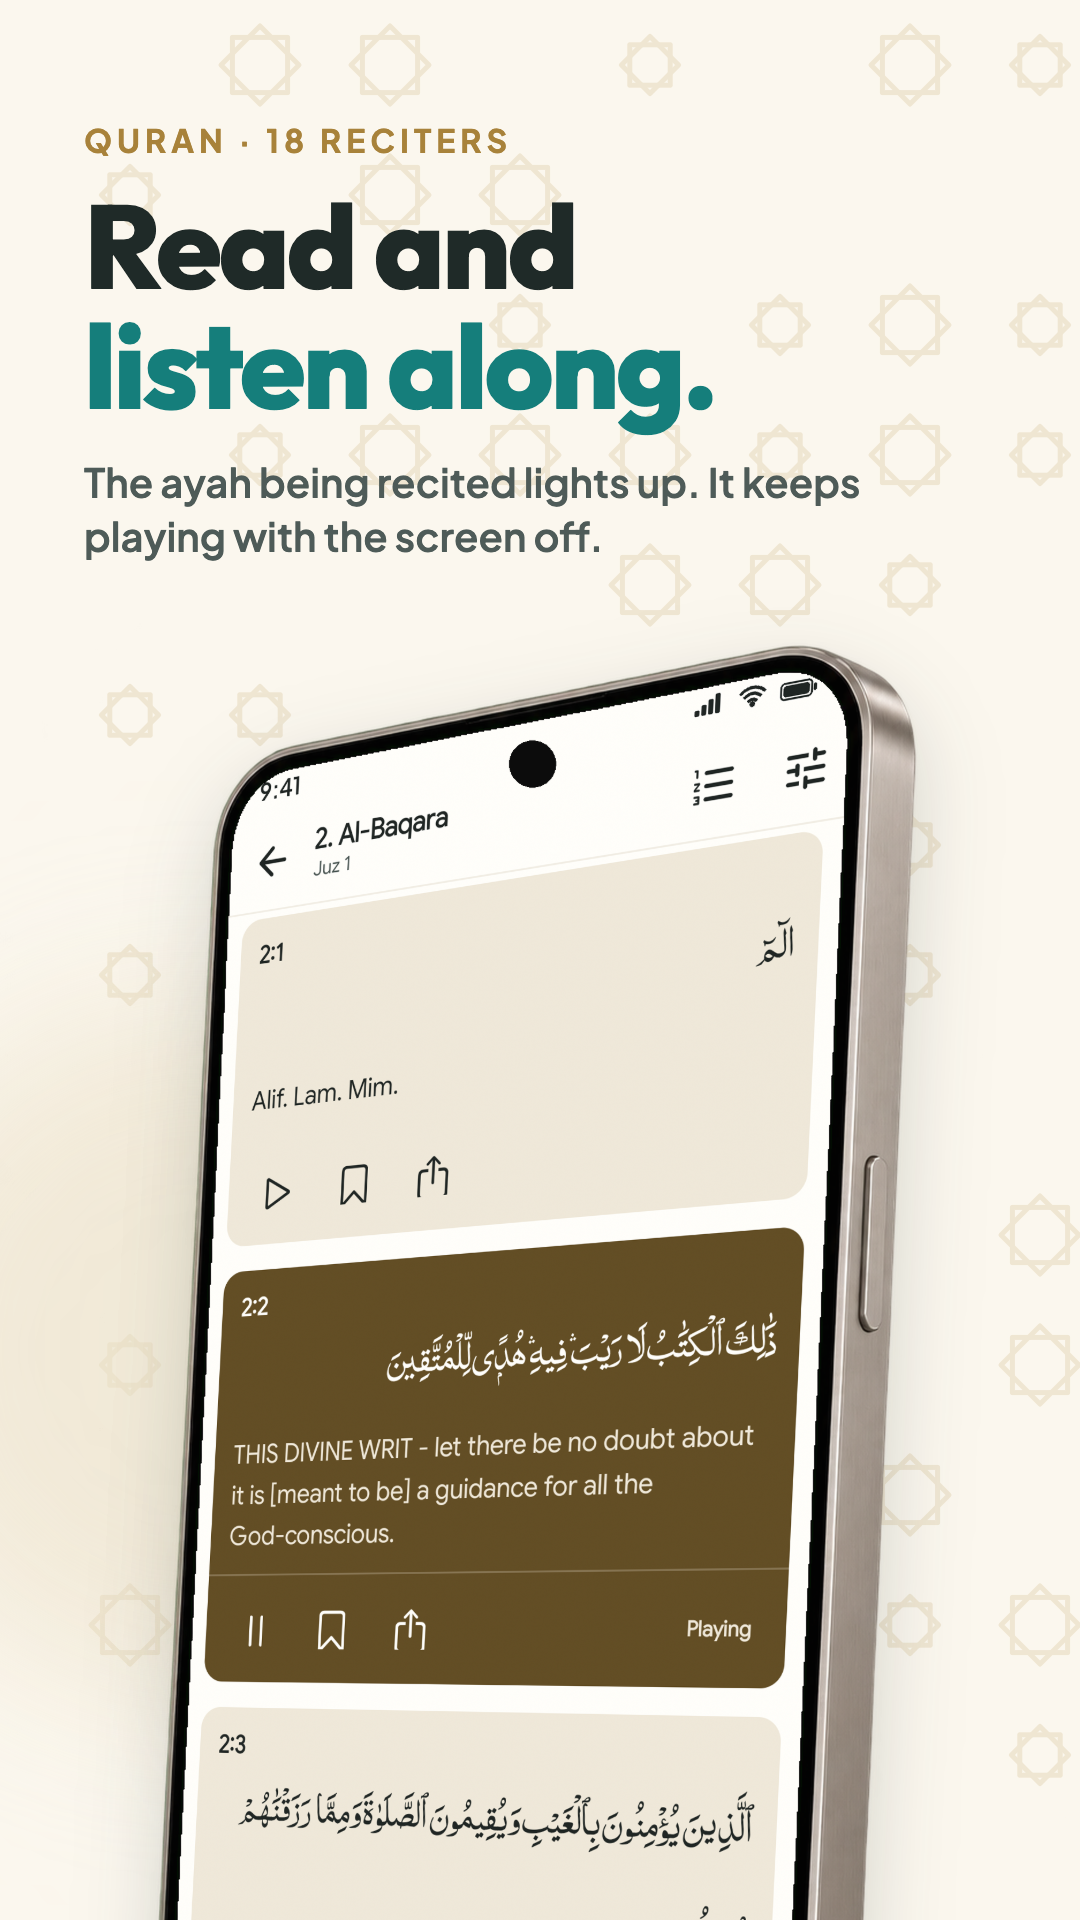
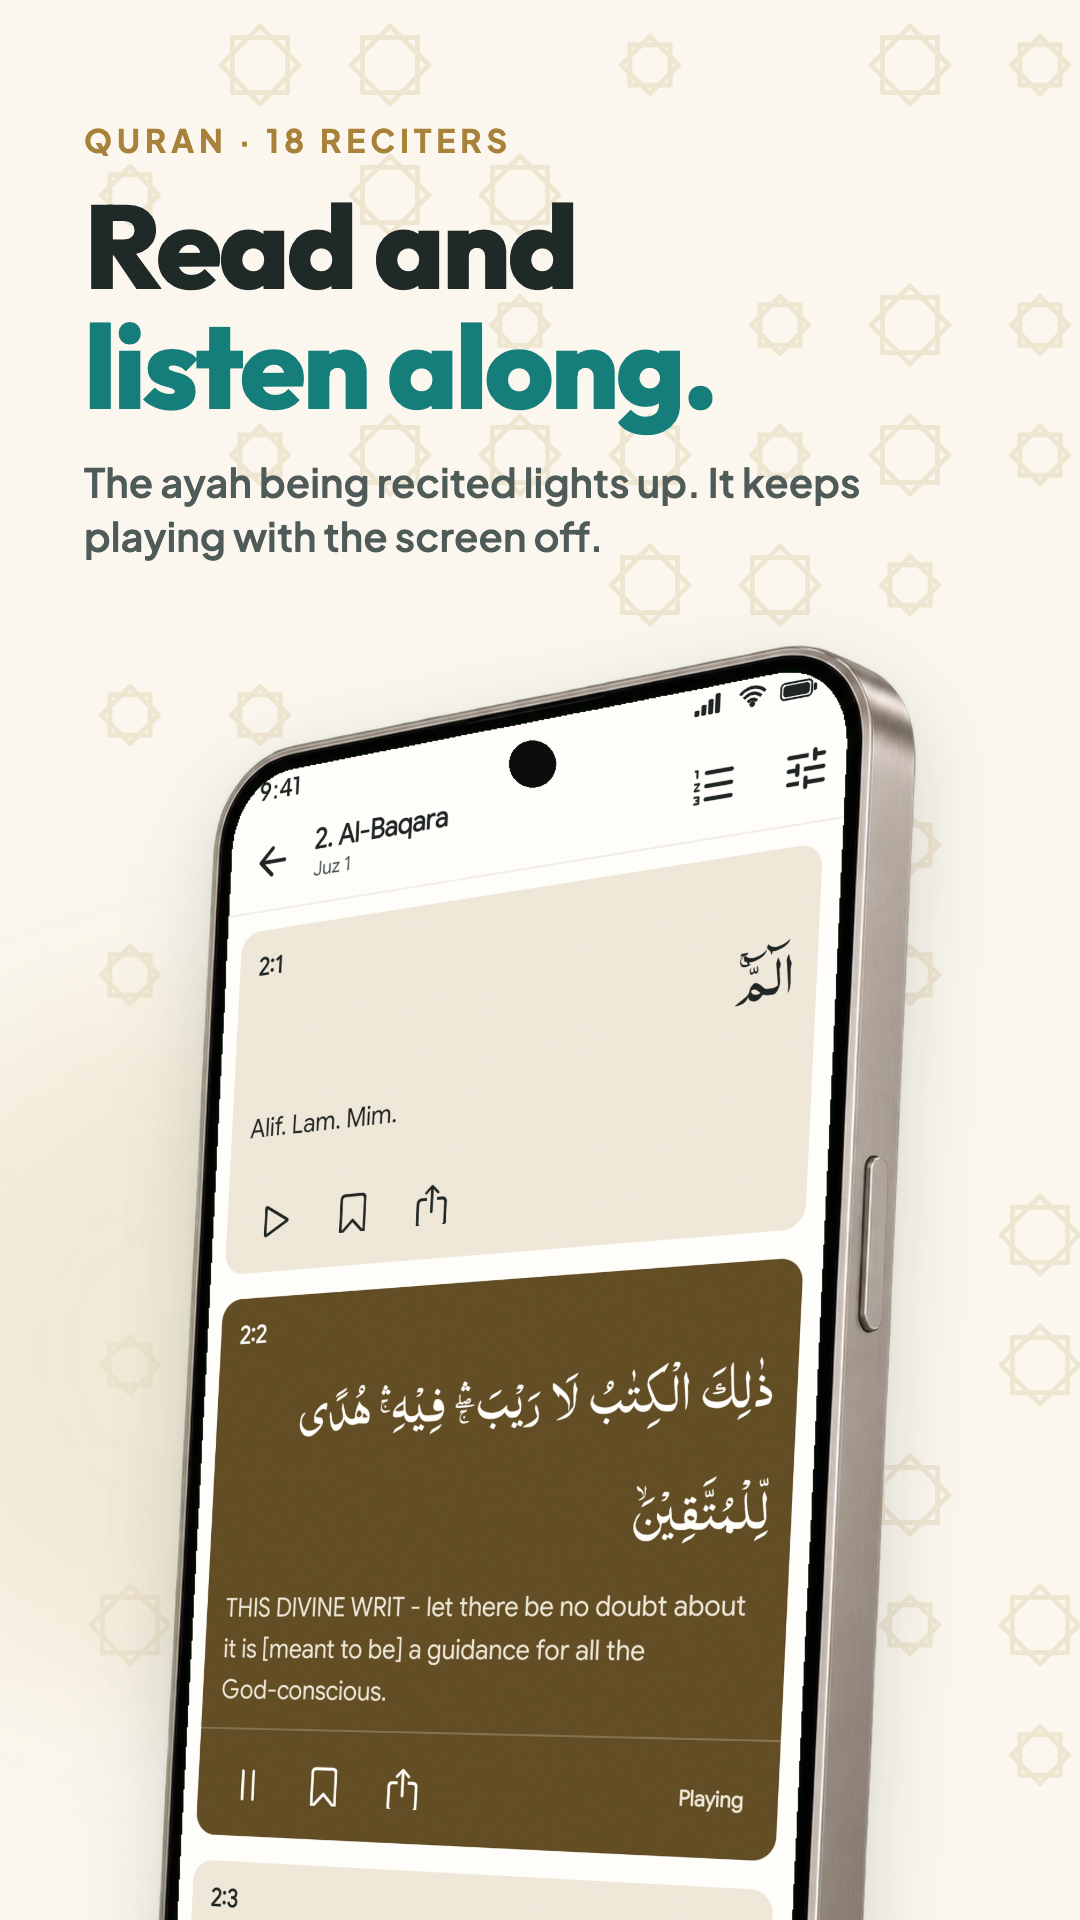
release(native): 2.0.0 (54) with IndoPak, and its listing slides
- Version code 54: 53 went to Play before the IndoPak script, slider and
  settings fixes.
- The release notes, in the app and for Play, now lead with the Quran in
  IndoPak script.
- Store slides 3 (reading with recitation) and 6 (Ayah Picture) are
  retaken with the IndoPak text.

Changed region(s): [[0.1833, 0.5625, 0.7639, 1.0], [0.3972, 0.4375, 0.7639, 0.5312], [0.2139, 0.4688, 0.3972, 0.5]]

diff --git a/docs/release/2.0.0-whats-new.md b/docs/release/2.0.0-whats-new.md
@@ -7,6 +7,7 @@ characters at most each).
 
 <en-US>
 Rafeeq 2.0 is rebuilt from the ground up: smaller, quicker and smoother.
+• The Quran in IndoPak script, as printed in Pakistan and India
 • Tap any ayah in the 16 Line Quran to listen, with the ayah highlighted
 • Recitation keeps playing with the screen off
 • A new Qibla compass with gentle haptics
@@ -19,6 +20,7 @@ Rafeeq 2.0 is rebuilt from the ground up: smaller, quicker and smoother.
 
 <ur>
 رفیق 2.0 نئے سرے سے بنایا گیا ہے: پہلے سے ہلکا، تیز اور رواں۔
+• قرآن انڈو پاک رسم الخط میں، جیسا پاکستان میں چھپتا ہے
 • 16 سطری قرآن میں کسی بھی آیت پر ٹیپ کر کے سنیں، آیت نمایاں ہو گی
 • اسکرین بند ہونے پر بھی تلاوت جاری رہتی ہے
 • نیا قبلہ کمپاس، ہلکی تھرتھراہٹ کے ساتھ
